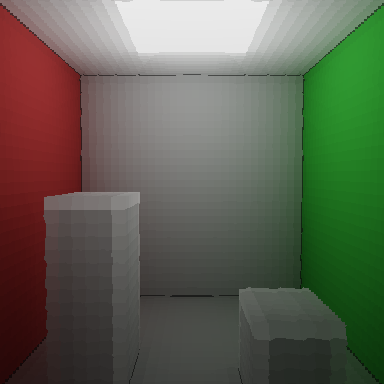
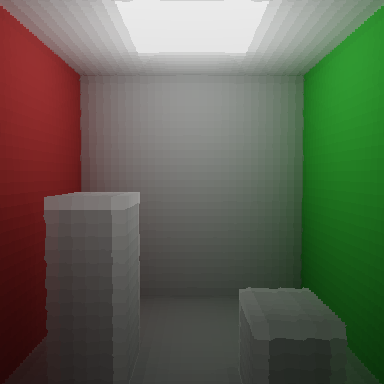
Buried-cell fallback at hits — fixes wall-seam dark outlines
The dark lines tracing wall-floor and wall-wall seams were "buried"
corner cells: cells like (0, 0, z) along the red-wall/floor edge that
have NO empty neighbors (every direction is another wall, floor, or
out-of-bounds). compute_normals returns zero for them, and the SOLID
rule degenerates: E(n=0) = (sqrt(pi)/2)·c_0, out.c_0 = albedo·c_0/2,
out.c_vec = 0. So buried cells render at ~36% the brightness of
adjacent face cells — visible as a thin dark outline at every seam.

Fix: track the last EMPTY voxel each ray traversed during the march.
On a hit, if the cell has zero stored normal (buried), sample that
last empty voxel's outgoing SH at the back-toward-camera direction
instead of using the buried cell's own SH. The empty cell's SH is
the radiance distribution at that point in the room, which already
includes scatter from the adjacent surfaces — sampling it at the
back direction gives the radiance flowing toward the camera at the
boundary, smoothing through the corner artifact.

Face cells (with proper axis-aligned normals) still use the
entry-face Lambertian path (cell.c_0 / sqrt(pi) gated by back·n).
Only buried cells take the fallback.

Same Lego, same propagation, same byte equivalence. Rendering only.

diff --git a/cornell_3d_sh.py b/cornell_3d_sh.py
@@ -282,7 +282,8 @@ def sh_evaluate_4(coefs: np.ndarray, d: np.ndarray) -> np.ndarray:
     return np.maximum(rad, 0.0)
 
 
-def render_perspective(materials_np, outgoing_np, view_W=384, view_H=384,
+def render_perspective(materials_np, outgoing_np, normals_np,
+                       view_W=384, view_H=384,
                        cam_offset_z: float = -0.6, cam_offset_y: float = 0.05,
                        fov_deg: float = 55.0, max_march: int = 256):
     W, H, D = materials_np.shape
@@ -312,6 +313,16 @@ def render_perspective(materials_np, outgoing_np, view_W=384, view_H=384,
     alive = np.ones(N, dtype=bool)
     step = 0.5
 
+    # Track the last EMPTY voxel each ray was in. On hit, we sample that
+    # cell's SH at the back-toward-camera direction — it gives the
+    # radiance flowing toward the camera at the surface boundary, which
+    # avoids the "buried wall-corner cell" artifact (corner cells with
+    # no empty neighbors render dim because their LPV gather + SOLID
+    # rule degenerate).
+    last_empty_x = np.full(N, -1, dtype=np.int32)
+    last_empty_y = np.full(N, -1, dtype=np.int32)
+    last_empty_z = np.full(N, -1, dtype=np.int32)
+
     for _ in range(max_march):
         if not alive.any():
             break
@@ -325,6 +336,13 @@ def render_perspective(materials_np, outgoing_np, view_W=384, view_H=384,
             iy_safe = np.clip(iy, 0, H - 1)
             iz_safe = np.clip(iz, 0, D - 1)
             mat = materials_np[ix_safe, iy_safe, iz_safe]
+            # Update last-empty trail for any ray currently in an empty cell.
+            now_empty = (mat == EMPTY) & can_check
+            if now_empty.any():
+                last_empty_x[now_empty] = ix_safe[now_empty]
+                last_empty_y[now_empty] = iy_safe[now_empty]
+                last_empty_z[now_empty] = iz_safe[now_empty]
+
             hit = (mat != EMPTY) & can_check
             if hit.any():
                 hit_idx = np.where(hit)[0]
@@ -384,9 +402,39 @@ def render_perspective(materials_np, outgoing_np, view_W=384, view_H=384,
                                           0.0)
 
                 is_light_hit = (hit_mat == LIGHT)[:, None]
-                img[hit_idx] = np.where(
+                primary_radiance = np.where(
                     is_light_hit, light_radiance, solid_radiance
                 )
+
+                # Buried-cell fallback: cells with zero stored normal
+                # (no empty neighbors — the wall/floor/back corners) get
+                # the cell.c_0 dim by ~3× because the SOLID rule
+                # degenerates without a normal. Sample the last empty
+                # voxel the ray passed through and evaluate its SH at
+                # the back direction. This gives the radiance flowing
+                # toward the camera at the surface boundary, smoothing
+                # through the buried-cell darkening.
+                cell_n_stored = normals_np[
+                    ix_safe[hit_idx], iy_safe[hit_idx], iz_safe[hit_idx]
+                ]
+                is_buried = (np.linalg.norm(cell_n_stored, axis=-1) < 1e-6)
+
+                lex = last_empty_x[hit_idx]
+                ley = last_empty_y[hit_idx]
+                lez = last_empty_z[hit_idx]
+                has_prev = (lex >= 0) & (ley >= 0) & (lez >= 0)
+                use_fallback = is_buried & has_prev
+
+                if use_fallback.any():
+                    fb_idx = np.where(use_fallback)[0]
+                    fb_sh = outgoing_np[
+                        lex[fb_idx], ley[fb_idx], lez[fb_idx]
+                    ]                                       # (n_fb, 4, 3)
+                    fb_back = back[fb_idx]                  # (n_fb, 3)
+                    fallback_radiance = sh_evaluate_4(fb_sh, fb_back)
+                    primary_radiance[fb_idx] = fallback_radiance
+
+                img[hit_idx] = primary_radiance
                 alive &= ~hit
 
         pos += ray_dir * step
@@ -460,8 +508,8 @@ def main():
 
     print("Rendering perspective view…")
     t0 = time.time()
-    img_lego = render_perspective(mat_np, out_lego, args.view_W, args.view_H)
-    img_sym  = render_perspective(mat_np, out_sym,  args.view_W, args.view_H)
+    img_lego = render_perspective(mat_np, out_lego, normals, args.view_W, args.view_H)
+    img_sym  = render_perspective(mat_np, out_sym,  normals, args.view_W, args.view_H)
     print(f"  render time: {(time.time()-t0)*1000:.1f} ms")
     print()
 
